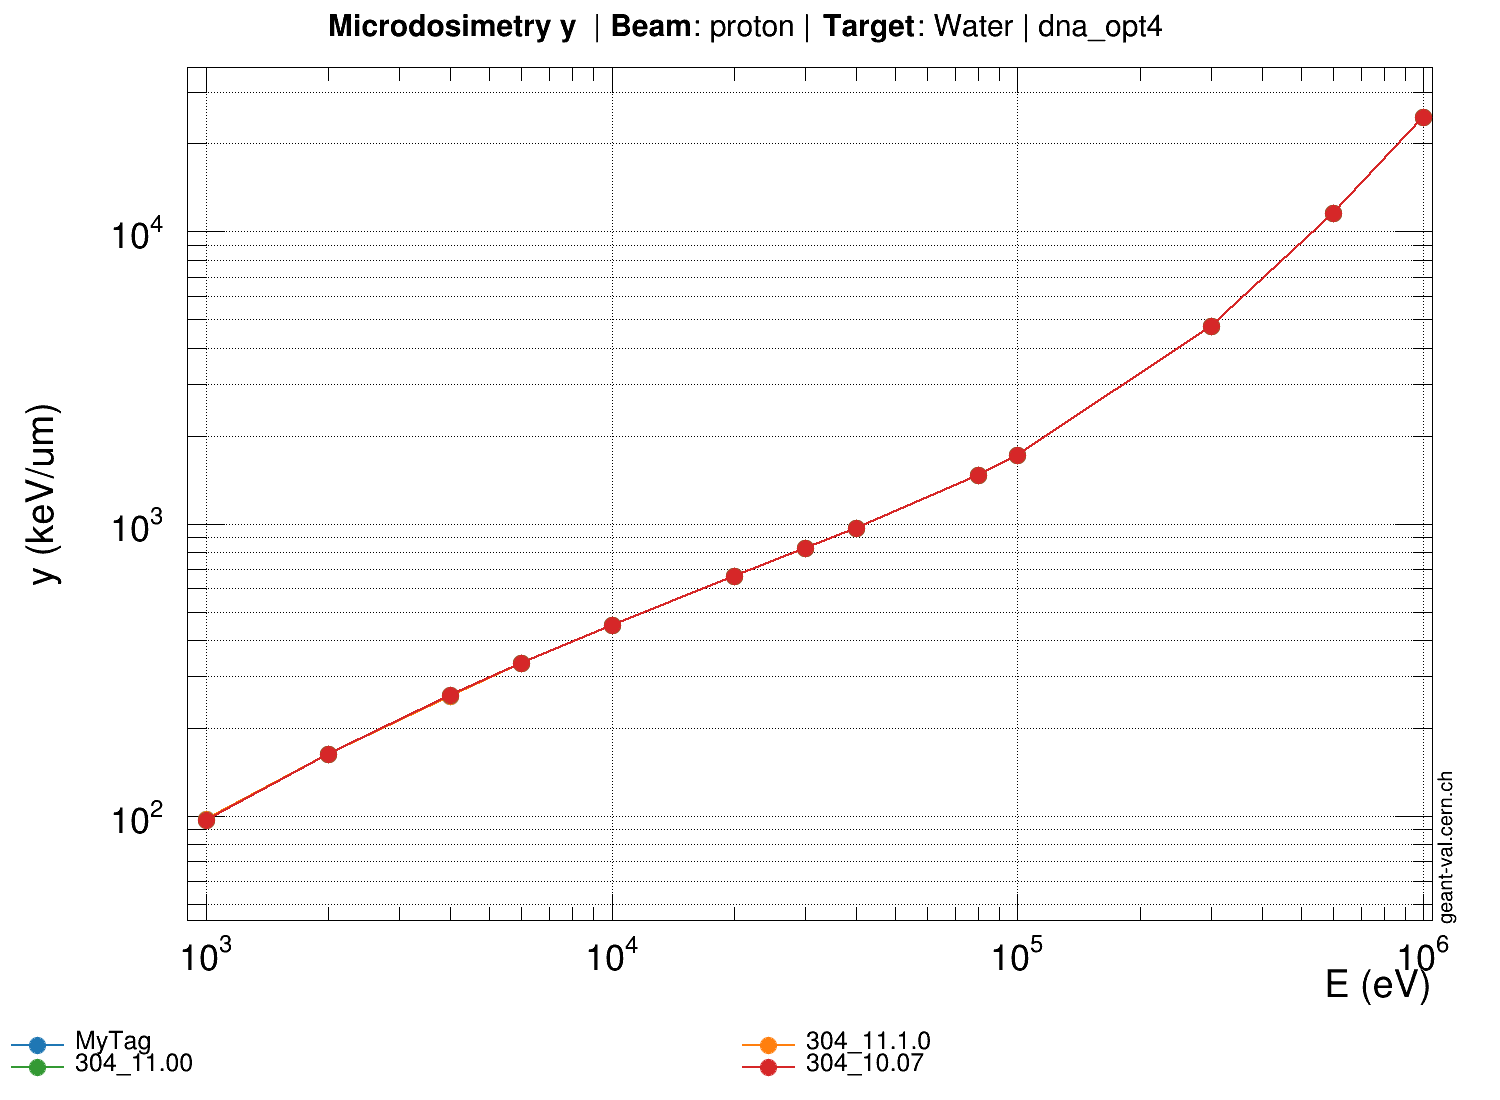
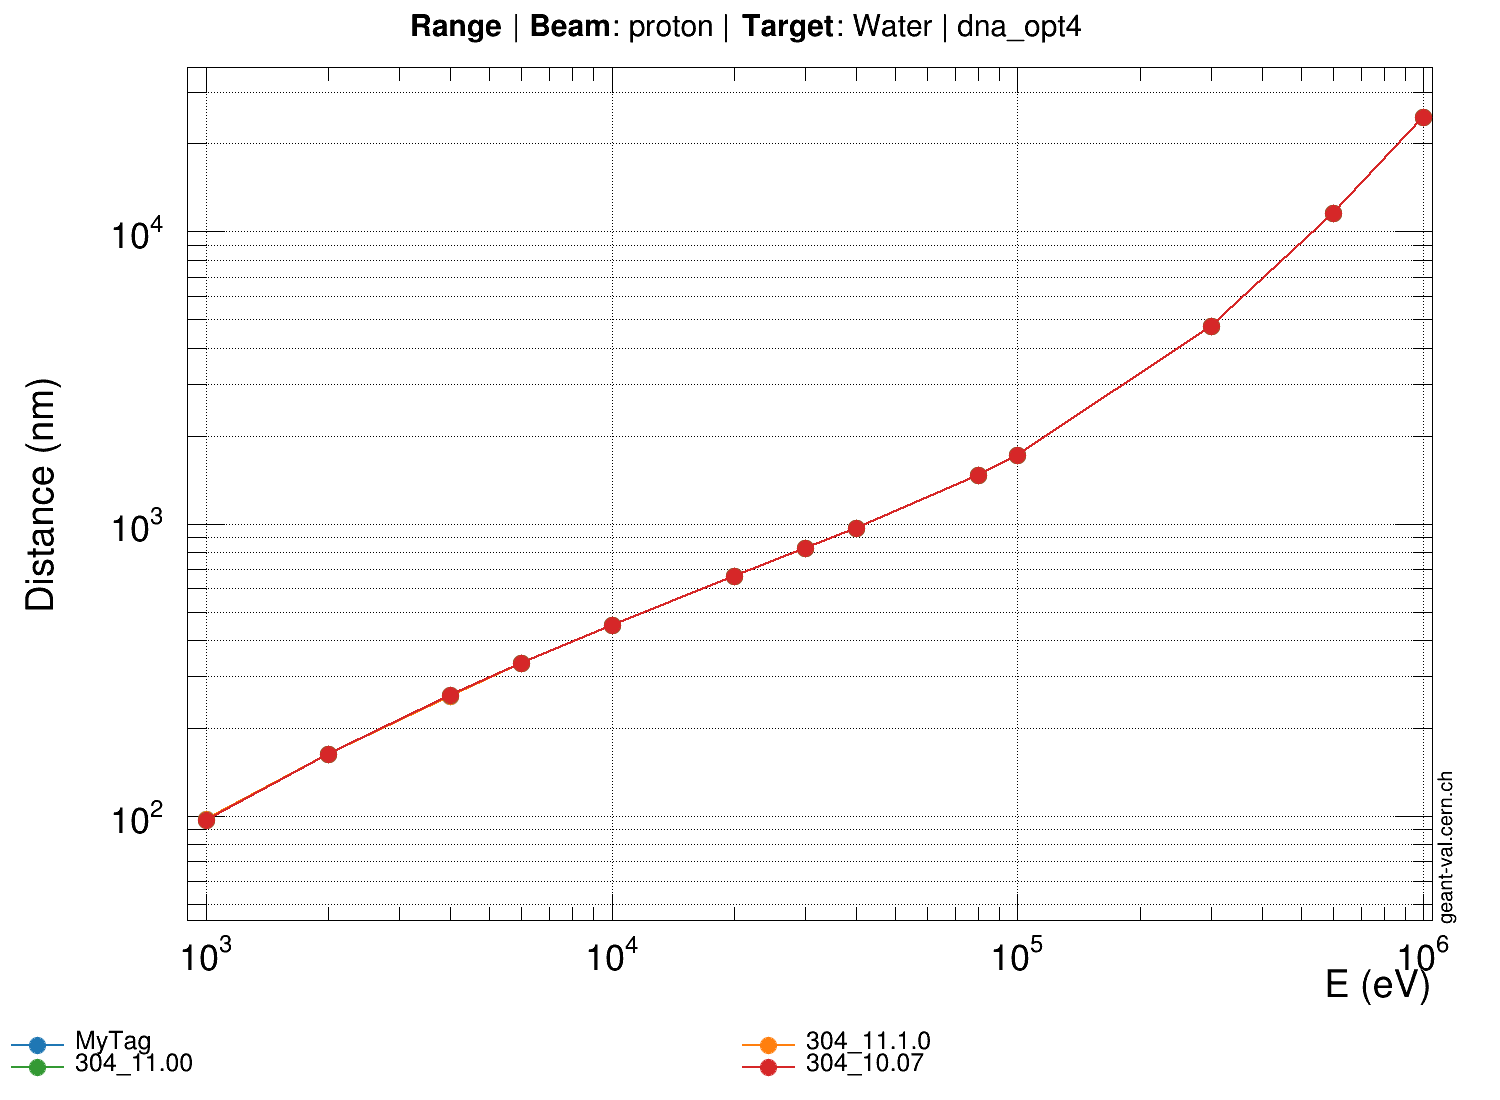
range/alpha.conf/MyTag : ven. mars 24 13:22:21 CET 2023

Changed region(s): [[0.2147, 0.0, 0.7667, 0.0309], [0.0, 0.34, 0.0613, 0.5564]]

diff --git a/assets/OUTPUTJSON/MyTag_304_11.1.0_304_11.00_304_10.07_range_proton.conf__dna_opt4.c b/assets/OUTPUTJSON/MyTag_304_11.1.0_304_11.00_304_10.07_range_proton.conf__dna_opt4.c
@@ -270,3 +270,275 @@ double gvp_id-1_yerrors[13] = {
   0,
   0
 };
+// Tool:               GEANT4
+// Version:            MyTag
+// Model:              dna_opt4
+// Observable:         range
+// Target:             Water
+// Beam Particle:      proton
+// Secondary Particle: None
+
+double gvp_id-1_x[13] = {
+  1000,
+  2000,
+  4000,
+  6000,
+  10000,
+  20000,
+  30000,
+  40000,
+  80000,
+  100000,
+  300000,
+  600000,
+  1e+06
+};
+double gvp_id-1_y[13] = {
+  97.5713,
+  162.432,
+  258.069,
+  332.877,
+  451.097,
+  661.094,
+  823.99,
+  965.786,
+  1468.51,
+  1715.95,
+  4748.44,
+  11560.4,
+  24690.1
+};
+double gvp_id-1_xerrors[13] = {
+  0,
+  0,
+  0,
+  0,
+  0,
+  0,
+  0,
+  0,
+  0,
+  0,
+  0,
+  0,
+  0
+};
+double gvp_id-1_yerrors[13] = {
+  0,
+  0,
+  0,
+  0,
+  0,
+  0,
+  0,
+  0,
+  0,
+  0,
+  0,
+  0,
+  0
+};
+// Tool:               GEANT4
+// Version:            304_11.1.0
+// Model:              dna_opt4
+// Observable:         microdosimetry y
+// Target:             Water
+// Beam Particle:      proton
+// Secondary Particle: None
+
+double gvp_id-1_x[13] = {
+  1000,
+  2000,
+  4000,
+  6000,
+  10000,
+  20000,
+  30000,
+  40000,
+  80000,
+  100000,
+  300000,
+  600000,
+  1e+06
+};
+double gvp_id-1_y[13] = {
+  97.5713,
+  162.432,
+  258.069,
+  332.877,
+  451.097,
+  661.094,
+  823.99,
+  965.786,
+  1468.51,
+  1715.95,
+  4748.44,
+  11560.4,
+  24690.1
+};
+double gvp_id-1_xerrors[13] = {
+  0,
+  0,
+  0,
+  0,
+  0,
+  0,
+  0,
+  0,
+  0,
+  0,
+  0,
+  0,
+  0
+};
+double gvp_id-1_yerrors[13] = {
+  0,
+  0,
+  0,
+  0,
+  0,
+  0,
+  0,
+  0,
+  0,
+  0,
+  0,
+  0,
+  0
+};
+// Tool:               GEANT4
+// Version:            304_11.00
+// Model:              dna_opt4
+// Observable:         microdosimetry y
+// Target:             Water
+// Beam Particle:      proton
+// Secondary Particle: None
+
+double gvp_id-1_x[13] = {
+  1000,
+  2000,
+  4000,
+  6000,
+  10000,
+  20000,
+  30000,
+  40000,
+  80000,
+  100000,
+  300000,
+  600000,
+  1e+06
+};
+double gvp_id-1_y[13] = {
+  97.244,
+  162.291,
+  259.532,
+  333.001,
+  450.491,
+  661.98,
+  824.076,
+  967.225,
+  1468.58,
+  1713.29,
+  4752.09,
+  11555,
+  24687.3
+};
+double gvp_id-1_xerrors[13] = {
+  0,
+  0,
+  0,
+  0,
+  0,
+  0,
+  0,
+  0,
+  0,
+  0,
+  0,
+  0,
+  0
+};
+double gvp_id-1_yerrors[13] = {
+  0,
+  0,
+  0,
+  0,
+  0,
+  0,
+  0,
+  0,
+  0,
+  0,
+  0,
+  0,
+  0
+};
+// Tool:               GEANT4
+// Version:            304_10.07
+// Model:              dna_opt4
+// Observable:         microdosimetry y
+// Target:             Water
+// Beam Particle:      proton
+// Secondary Particle: None
+
+double gvp_id-1_x[13] = {
+  1000,
+  2000,
+  4000,
+  6000,
+  10000,
+  20000,
+  30000,
+  40000,
+  80000,
+  100000,
+  300000,
+  600000,
+  1e+06
+};
+double gvp_id-1_y[13] = {
+  97.244,
+  162.291,
+  259.532,
+  333.001,
+  450.491,
+  661.98,
+  824.076,
+  967.225,
+  1468.58,
+  1713.29,
+  4752.09,
+  11555,
+  24687.3
+};
+double gvp_id-1_xerrors[13] = {
+  0,
+  0,
+  0,
+  0,
+  0,
+  0,
+  0,
+  0,
+  0,
+  0,
+  0,
+  0,
+  0
+};
+double gvp_id-1_yerrors[13] = {
+  0,
+  0,
+  0,
+  0,
+  0,
+  0,
+  0,
+  0,
+  0,
+  0,
+  0,
+  0,
+  0
+};

diff --git a/assets/OUTPUTJSON/geant4/MyTag/x86_64/range/alpha.conf.c b/assets/OUTPUTJSON/geant4/MyTag/x86_64/range/alpha.conf.c
@@ -354,3 +354,95 @@ double gvp_id-1_yerrors[19] = {
   0,
   0
 };
+// Tool:               GEANT4
+// Version:            MyTag
+// Model:              dna_opt4
+// Observable:         range
+// Target:             Water
+// Beam Particle:      alpha
+// Secondary Particle: None
+
+double gvp_id-1_x[19] = {
+  1000,
+  1100,
+  1300,
+  1600,
+  2000,
+  4000,
+  6000,
+  10000,
+  20000,
+  40000,
+  60000,
+  70000,
+  80000,
+  90000,
+  100000,
+  200000,
+  500000,
+  700000,
+  1e+06
+};
+double gvp_id-1_y[19] = {
+  1.82096,
+  6.87343,
+  13.4566,
+  22.0325,
+  33.8783,
+  80.3267,
+  130.752,
+  223.992,
+  413.212,
+  719.219,
+  979.862,
+  1084.02,
+  1179.17,
+  1281.51,
+  1360.64,
+  2084.92,
+  3618.62,
+  4488.07,
+  5799.17
+};
+double gvp_id-1_xerrors[19] = {
+  0,
+  0,
+  0,
+  0,
+  0,
+  0,
+  0,
+  0,
+  0,
+  0,
+  0,
+  0,
+  0,
+  0,
+  0,
+  0,
+  0,
+  0,
+  0
+};
+double gvp_id-1_yerrors[19] = {
+  0,
+  0,
+  0,
+  0,
+  0,
+  0,
+  0,
+  0,
+  0,
+  0,
+  0,
+  0,
+  0,
+  0,
+  0,
+  0,
+  0,
+  0,
+  0
+};
